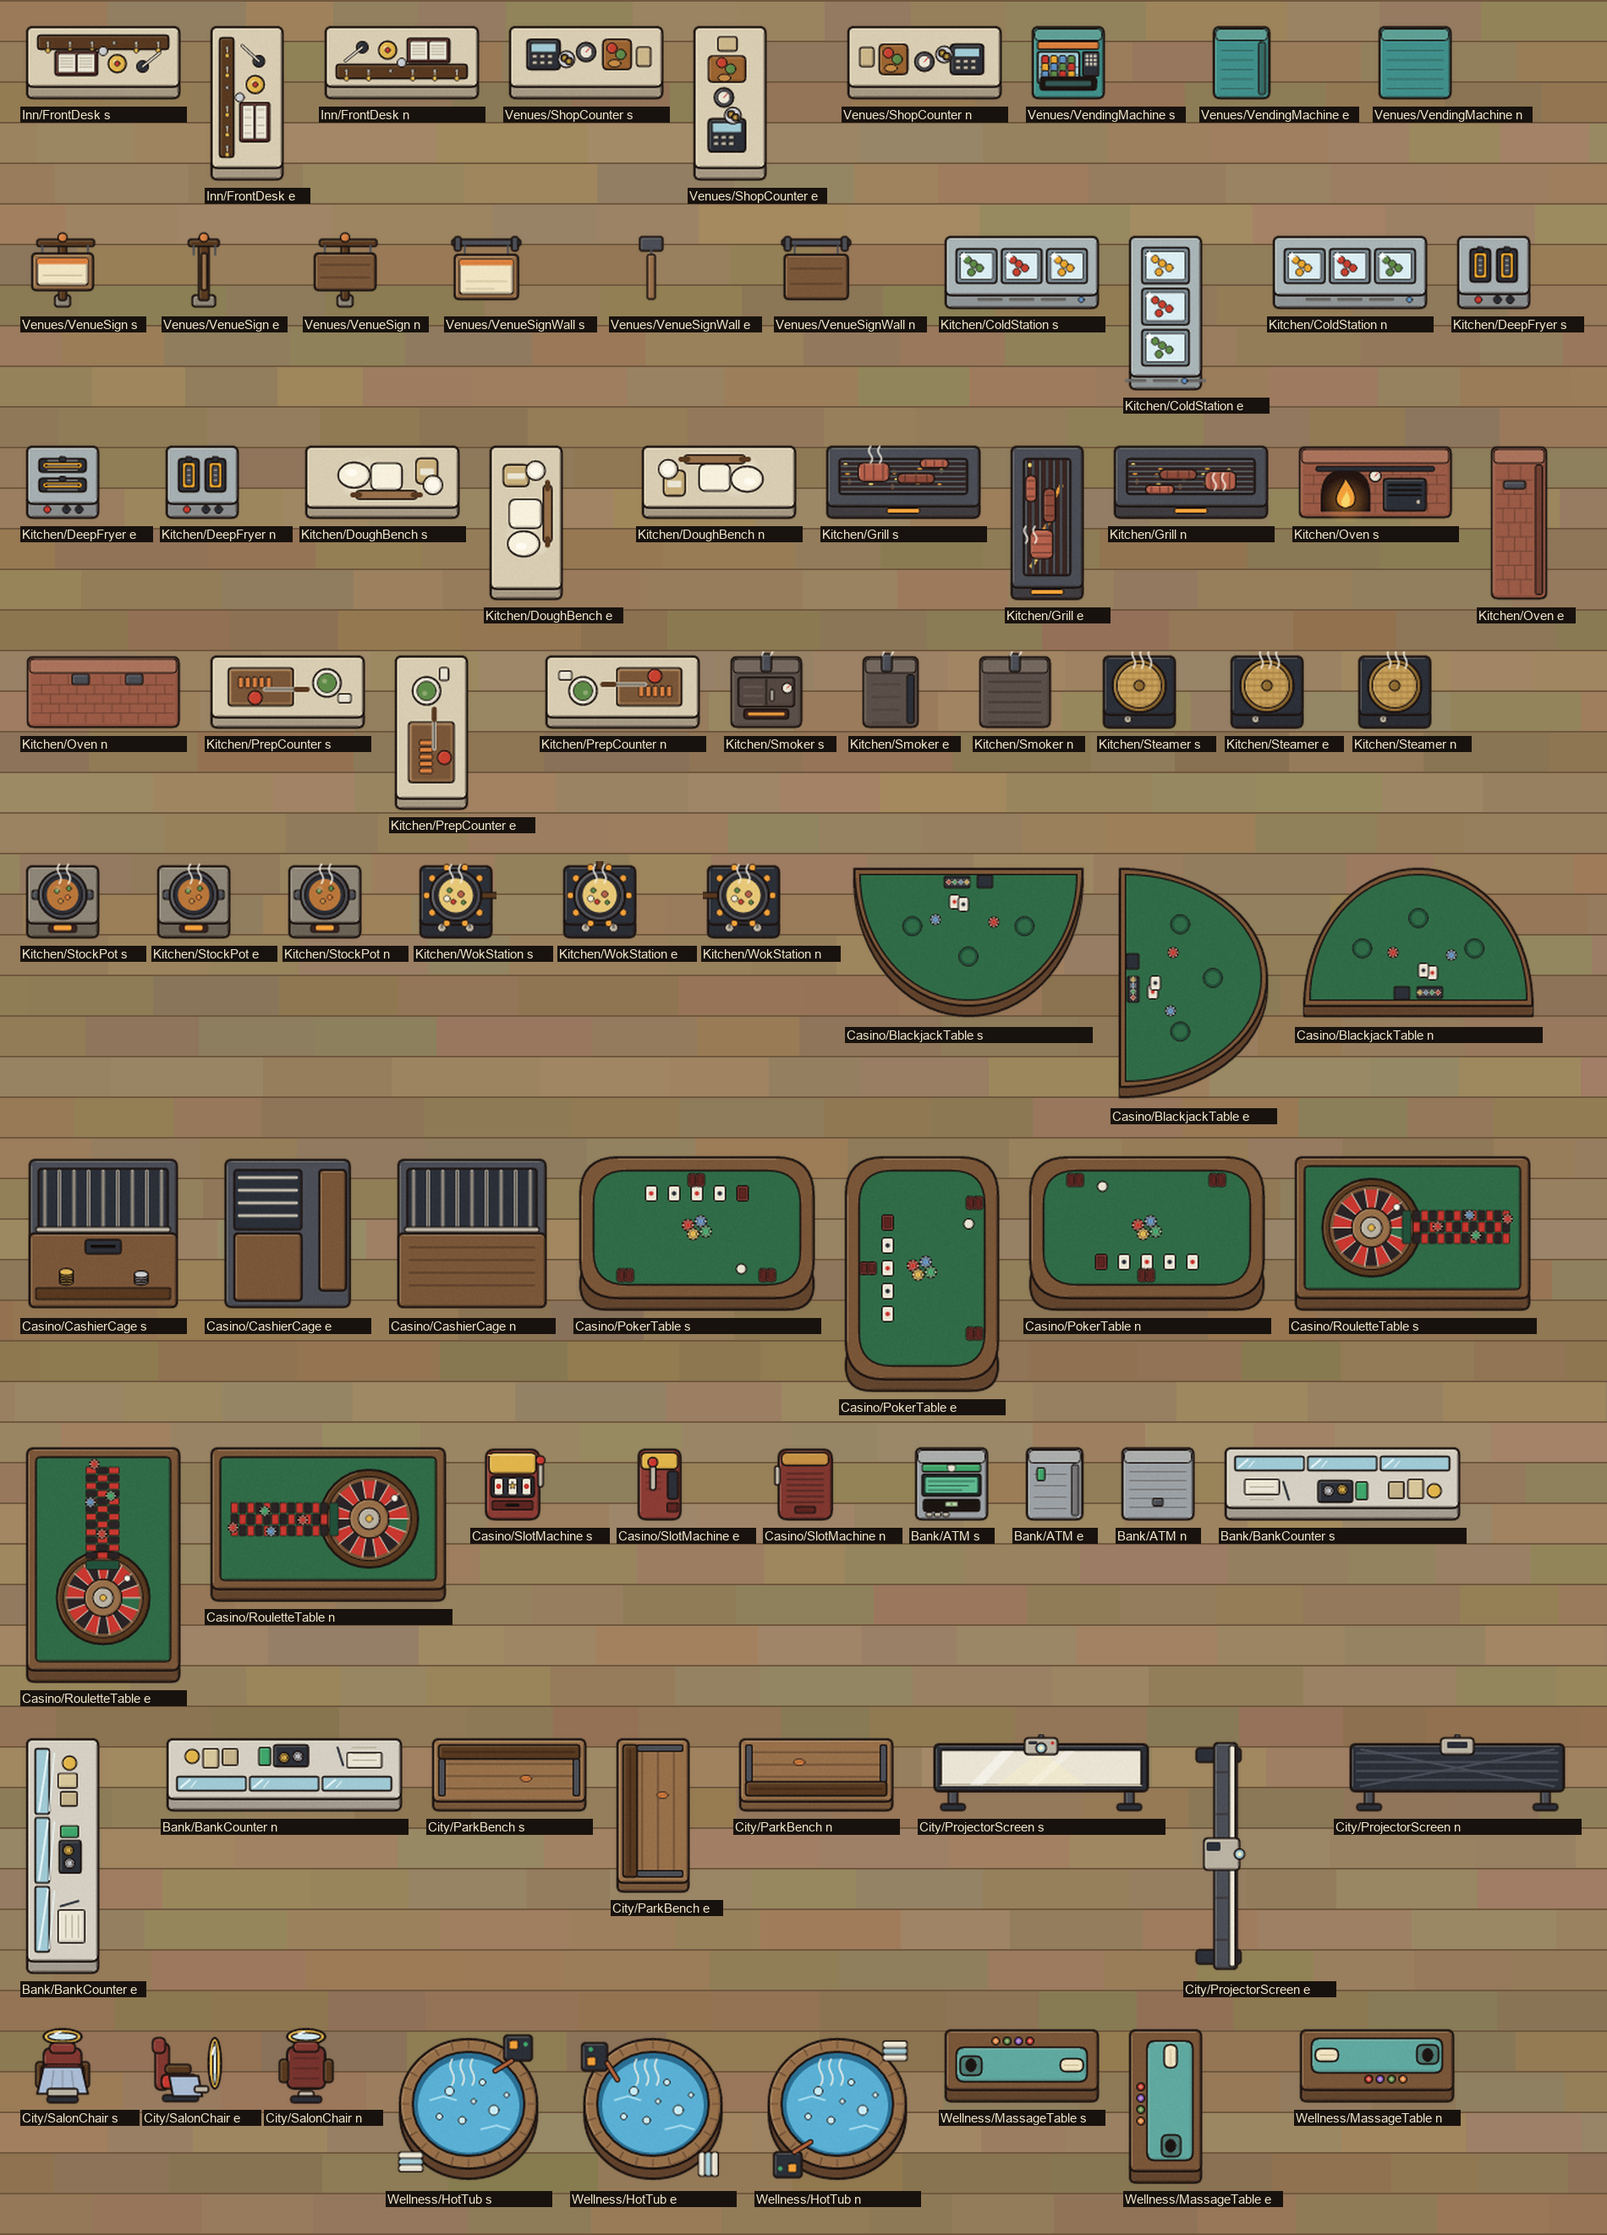
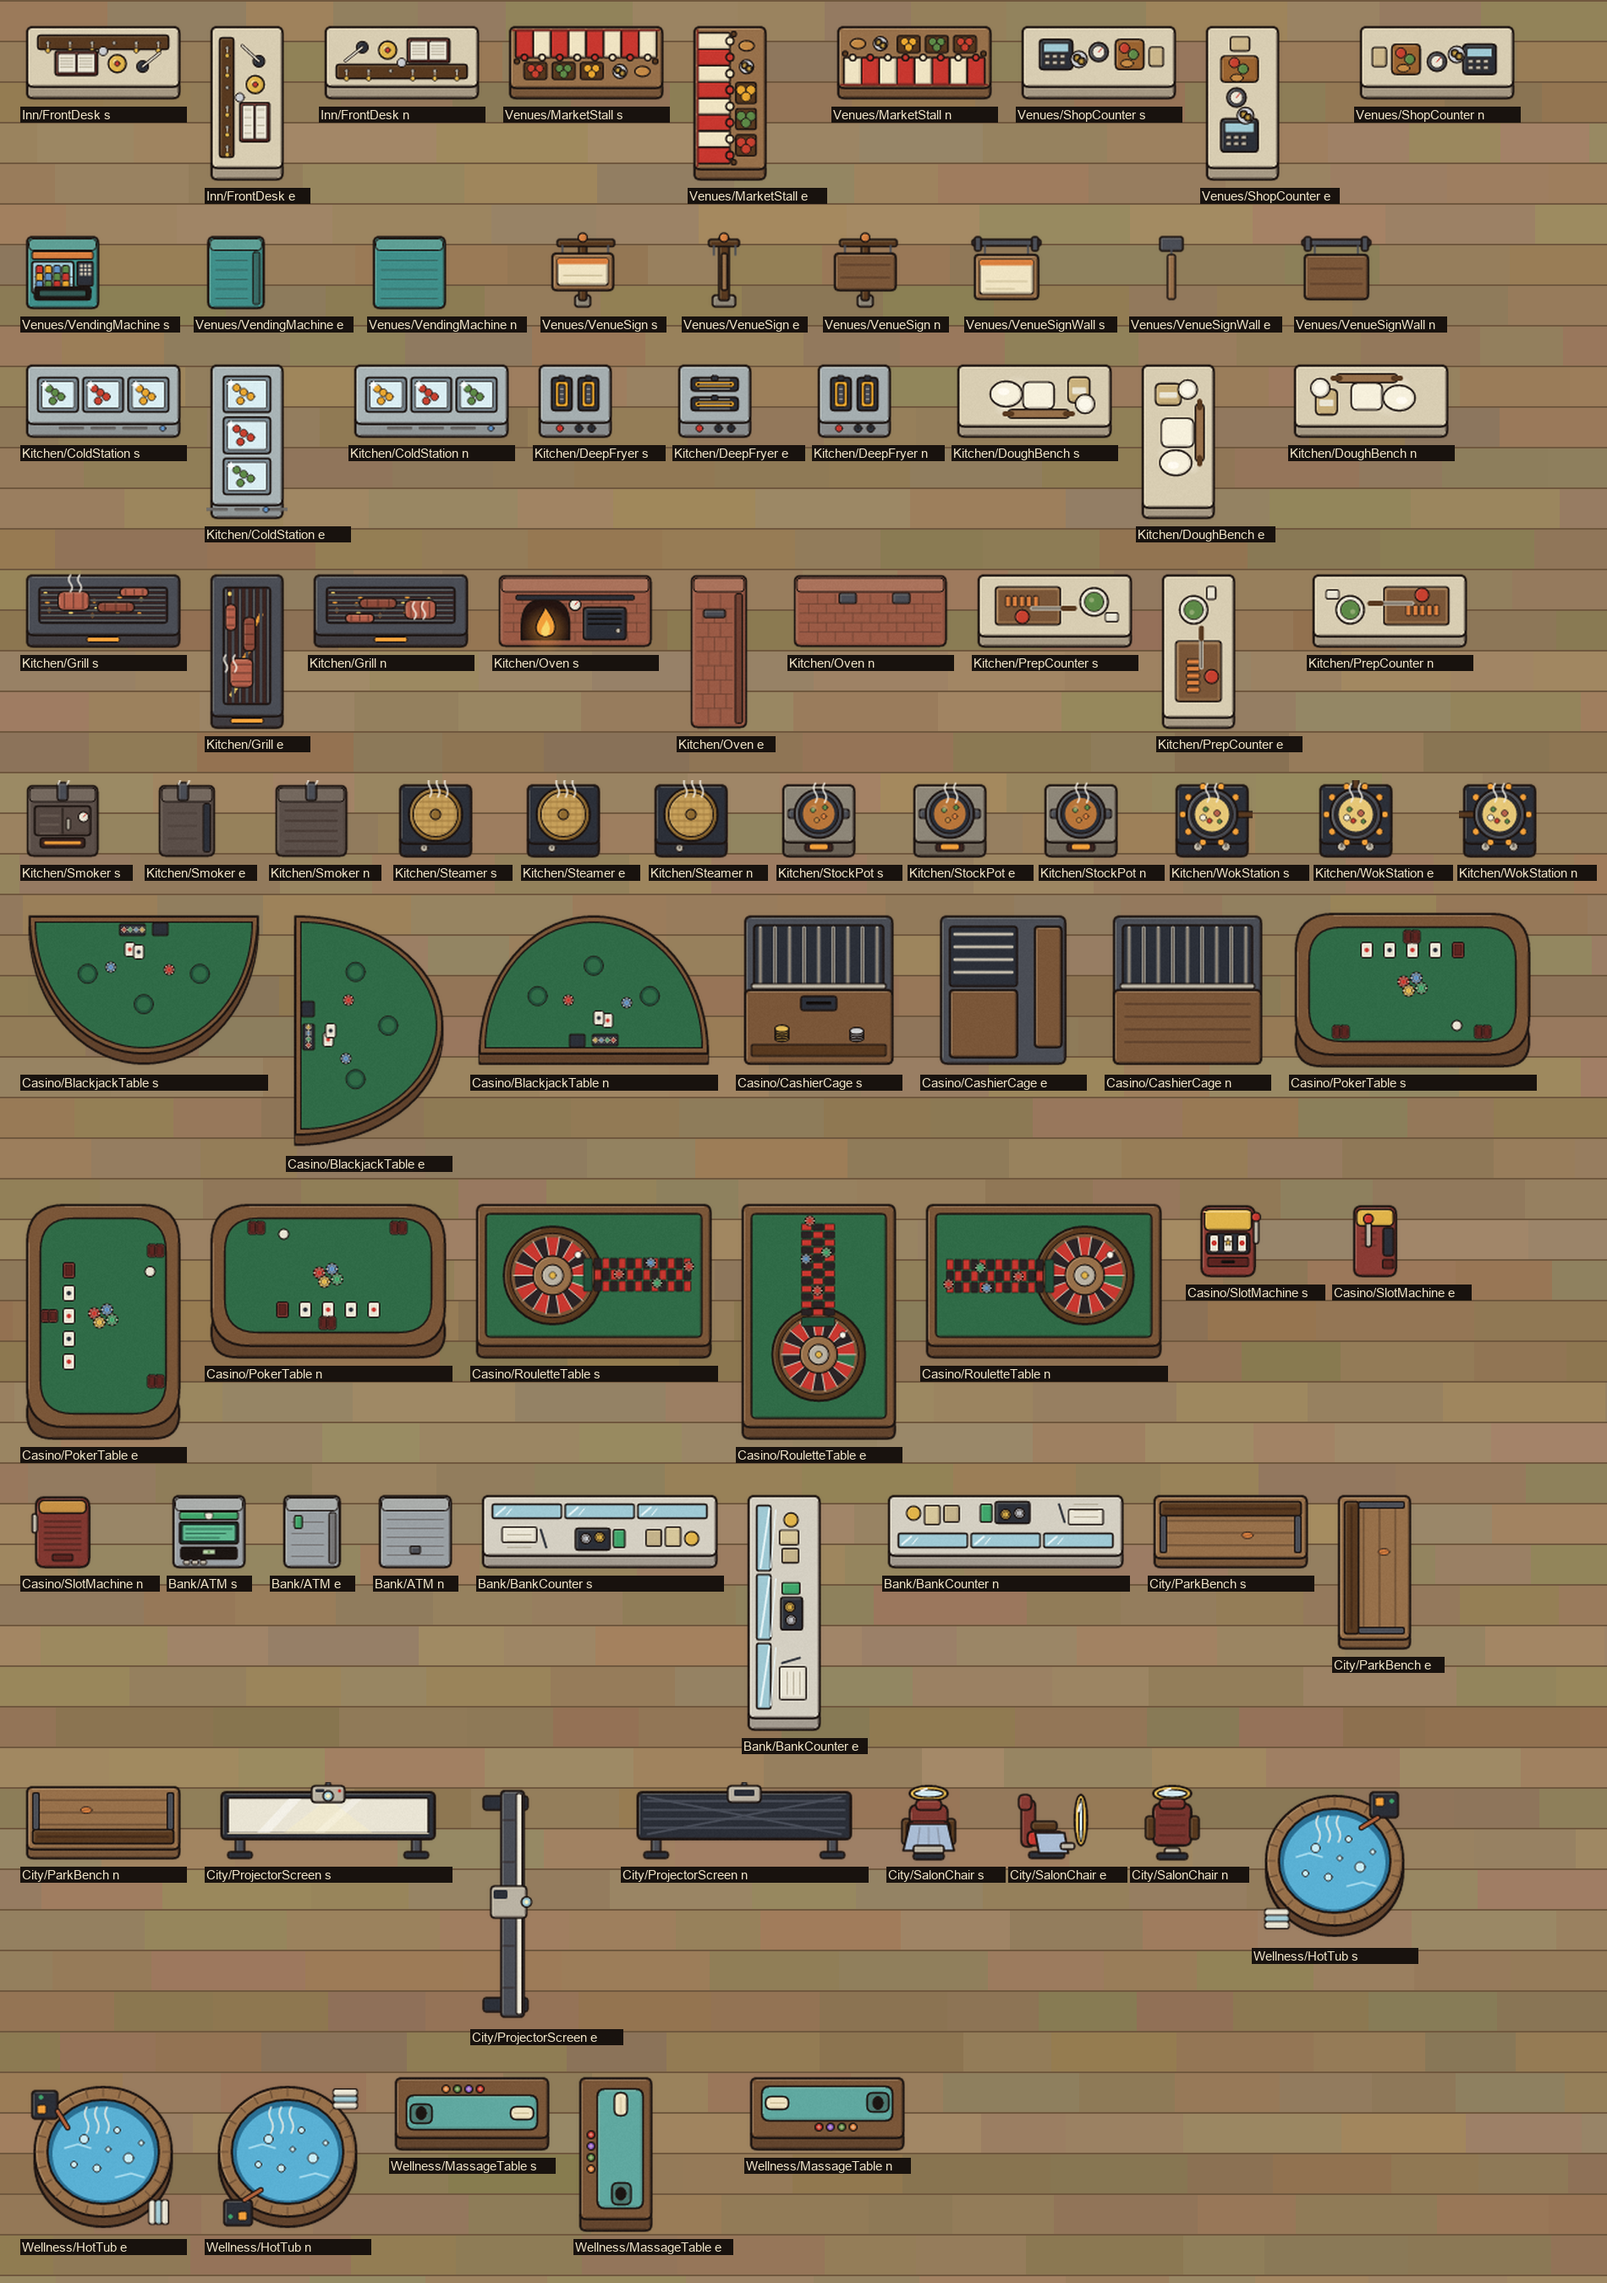
Art: MarketStall, DoorPolicy, Cmd_Restock, Type_Chapel real art; audit shows no placeholders left

diff --git a/tools/art/hhart/venues.py b/tools/art/hhart/venues.py
@@ -207,3 +207,53 @@ def t_lounge(view, cells, masked):
     c.line(92, 10, 74, 40, P["wood_l"], w=3)
     c.circle(96, 22, 9, P["leaf"], sw=3)
     return c
+
+
+@tex("Things/HH/Venues/MarketStall", "multi", (2, 1), doc="Market stall: wooden counter with goods under a striped awning, 2x1")
+def marketstall(view, cells, masked):
+    c = canvas_for_(cells, view, masked)
+    f = slab(c, view, P["wood_l"], apron=16, m=None)
+    # goods on the open front half: crates of fruit, a coin dish and a loaf basket
+    for i, col in enumerate((P["tomato"], P["leaf"], P["yolk"])):
+        bx, by, bw, bh = f.r(f.w * (.06 + i * .2), f.h * .6, f.w * .16, f.h * .34)
+        c.rect(bx, by, bw, bh, P["wood_d"], r=4, sw=2.4, hl=False)
+        cx, cy = bx + bw / 2, by + bh / 2
+        r0 = max(4.0, min(bw, bh) * .24)
+        for dx, dy in ((-r0, -r0 * .6), (r0, -r0 * .6), (0, r0 * .8)):
+            c.circle(cx + dx, cy + dy, r0, col, sw=1.8, hl=False)
+    dx0, dy0 = f.pt(f.w * .74, f.h * .78)
+    c.circle(dx0, dy0, 11, P["silver"], sw=2.4)
+    coin(c, dx0 - 3, dy0 - 2, 5)
+    coin(c, dx0 + 4, dy0 + 3, 5)
+    ex, ey = f.pt(f.w * .9, f.h * .78)
+    c.ellipse(ex, ey, 12, 8, P["bread"], sw=2.4)
+    # awning over the back half: alternating stripes, scalloped front edge, two poles
+    n = 8
+    sw_ = f.w / n
+    depth = f.h * .5
+    for i in range(n):
+        col = P["red_l"] if i % 2 == 0 else P["cream"]
+        c.rect(*f.r(i * sw_, -4, sw_, depth + 4), col, r=2, sw=2.6, hl=False)
+        sx, sy = f.pt(i * sw_ + sw_ / 2, depth)
+        c.circle(sx, sy, max(5.0, min(f.w, f.h) / n * .52 if f.w < f.h * 3 else sw_ * .5), col, sw=2.6, hl=False)
+    c.line(*f.pt(-4, -4), *f.pt(f.w + 4, -4), dark(P["red_l"], .45), w=3.4)
+    for px in (2, f.w - 2):
+        x, y = f.pt(px, depth + 6)
+        c.circle(x, y, 4.2, P["wood_d"], sw=2.2, hl=False, sh=False)
+    return c
+
+
+@tex("UI/HH/Venues/Type_Chapel", "single", (1, 1), ppc=128, grain=0, doc="Icon: guest chapel (small chapel with bell tower, arched door, round window)")
+def t_chapel(view, cells, masked):
+    c = _icon(cells, masked)
+    col = P["violet"]
+    c.rect(14, 70, 100, 46, P["cream"], r=4, sw=3.8)
+    c.poly([(8, 72), (64, 36), (120, 72)], col, sw=3.8, hl=True)
+    c.rect(48, 18, 32, 40, P["stone"], r=3, sw=3.4)
+    c.poly([(44, 20), (64, 2), (84, 20)], dark(col, .2), sw=3.4)
+    c.path("M56 56 L56 34 A8 8 0 0 1 72 34 L72 56 Z", P["dsteel"], sw=2.4)
+    c.circle(64, 42, 4.2, P["gold"], sw=2, hl=False, sh=False)
+    c.path("M52 116 L52 92 A12 12 0 0 1 76 92 L76 116 Z", P["wood"], sw=3.4)
+    c.circle(26, 92, 6.5, P["glass"], sw=2.6, hl=False)
+    c.circle(102, 92, 6.5, P["glass"], sw=2.6, hl=False)
+    return c

diff --git a/tools/art/hhart/icons.py b/tools/art/hhart/icons.py
@@ -462,3 +462,32 @@ def i_ascension(view, cells, masked):
     star(c, 92, 26, 22, "#ffe58a", sw=3.6)
     coin(c, 38, 52, 14)
     return c
+
+
+@tex("UI/HH/Venues/Cmd_Restock", "single", (1, 1), ppc=128, grain=0, doc="Command icon: restock (arrow down into a crate of goods)")
+def cmd_restock(view, cells, masked):
+    c = _icon(cells, masked)
+    c.rect(16, 66, 96, 50, P["wood"], r=6, sw=4.2)
+    for x in (38, 64, 90):
+        c.line(x, 70, x, 112, dark(P["wood"], .35), w=3.4)
+    c.rect(16, 66, 96, 12, P["wood_l"], r=5, sw=3.4)
+    c.circle(38, 62, 11, P["tomato"], sw=3.2)
+    c.circle(90, 62, 10, P["leaf"], sw=3.2)
+    arrow(c, 64, 6, 64, 54, P["emerald"], w=10, head=24)
+    return c
+
+
+@tex("UI/HH/Inn/DoorPolicy", "single", (1, 1), ppc=128, grain=0, doc="Command icon: door policy (door with a hanging board showing a tick and a cross)")
+def door_policy(view, cells, masked):
+    c = _icon(cells, masked)
+    c.rect(10, 12, 60, 104, P["wood"], r=6, sw=4.2)
+    c.rect(20, 24, 40, 34, P["wood_l"], r=3, sw=2.8, hl=False)
+    c.rect(20, 66, 40, 40, P["wood_l"], r=3, sw=2.8, hl=False)
+    c.circle(60, 70, 4.4, P["gold"], sw=2, hl=False, sh=False)
+    c.line(78, 22, 78, 34, P["iron"], w=3.4)
+    c.line(116, 22, 116, 34, P["iron"], w=3.4)
+    c.rect(72, 30, 48, 84, P["cream"], r=6, sw=4)
+    tline(c, [(82, 56), (90, 66), (108, 44)], 7, P["emerald"])
+    tline(c, [(84, 84), (108, 106)], 7, P["red_l"])
+    tline(c, [(108, 84), (84, 106)], 7, P["red_l"])
+    return c
